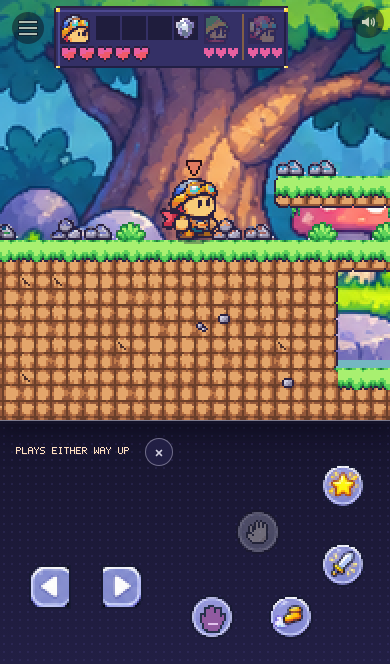
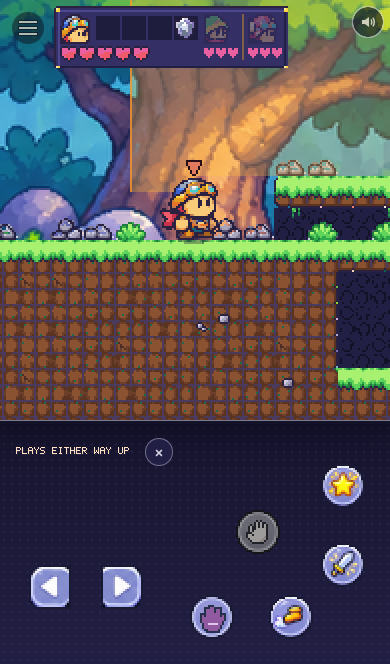
Step 15 push 4b: the forest on the phone (e2e case in place and green inside the full suite; true-size shots; the region row; a line for Step 10)
Why: the brief's push 4 (signal 6): a phone, by touch only, walks through
the courtyard's forest doorway, along the road, onto the trail, switches to
the infiltrator, climbs the boughs and gets into the gap.

- scripts/e2e/forest.ts (the second builder's parked draft, unchanged but for
  its header) called after quarryFacts in scripts/e2e.ts.
- docs/plan/step-15-shots/: ten spots at true 844x390, 750x340 and 390x664
  (tools/scenario-bots/shots.mjs now has a true 844x390 size; the old
  "844x390" was 750x340).
- docs/architecture.md "I need to add... a region"; docs/for-the-orchestrator.md
  a line for Step 10's lead; docs/plan/step-15.md handoff (push 5 not built:
  measured why, with options for the lead).

Ran: npm run build 0, npm run check ok; npm run e2e twice in full: first 1
red (cantina-in, then green twice alone), second 139 ok / 0 failed with all
five forest-* facts ok. Control E2E_FOREST_BREAK=door watched failing
(forest-in false, page stays in the courtyard). Restored the other steps'
shots that e2e rewrites. Not shot: the start menu's stage rows.
Measure rows: none moved. Undo: revert the commit.

Claude-Session: https://claude.ai/code/session_017WiGzGVGmfNTRtDB8nX3Np

diff --git a/scripts/e2e.ts b/scripts/e2e.ts
@@ -447,6 +447,8 @@ async function main(): Promise<void> {
       await (await import('./e2e/powers.ts')).powerFacts({ browser, devices, base, out, fact, errors, shots: path.join(out, 'powers') });
       // Step 16's facts (quarry-*): into the quarry by touch, and across its road onto the ridge (docs/plan/step-16.md, signal 7).
       await (await import('./e2e/quarry.ts')).quarryFacts({ browser, devices, base, out, fact, errors });
+      // Step 15's facts (forest-*): through the courtyard's forest doorway by touch, across the road onto the trail, switch to the infiltrator, up the boughs and into the gap (docs/plan/step-15.md, signal 6).
+      await (await import('./e2e/forest.ts')).forestFacts({ browser, devices, base, out, fact, errors });
       // Step 11's facts (cantina-*): into the cantina by touch, the party row, the swap and the brawl's counter on two phones (docs/mechanisms/cantina.md, signal 8).
       await (await import('./e2e/cantina.ts')).cantinaFacts({ browser, devices, base, out, fact, errors });
       // Step 17's facts (start-*): the start screen, New game, a friend joining by the shared link, and back, by touch (docs/mechanisms/saves.md).

diff --git a/scripts/e2e/forest.ts b/scripts/e2e/forest.ts
@@ -1,5 +1,3 @@
-// DRAFT, NOT RUN (Step 15 push 4, second builder): written, never executed. Move to scripts/e2e/forest.ts and add its call line after quarryFacts in scripts/e2e.ts:
-//   await (await import('./e2e/forest.ts')).forestFacts({ browser, devices, base, out, fact, errors });
 // Step 15's facts inside `npm run e2e` (one call line in scripts/e2e.ts), signal 6
 // (docs/plan/step-15.md): a phone-sized page, by touch only, walks from the
 // start room to the courtyard, up through its forest doorway into the forest
@@ -17,7 +15,7 @@
 // DRAFT: every limit below is a first pass with room to spare.
 import fs from 'node:fs';
 import path from 'node:path';
-import { me, phone, pointOn, settle, standAt, tap } from '../lib/e2e-touch.ts'; // DRAFT: move this file to scripts/e2e/forest.ts before running it
+import { me, phone, pointOn, settle, standAt, tap } from '../lib/e2e-touch.ts';
 import type { Kit, Phone } from '../lib/e2e-touch.ts';
 
 /* eslint-disable @typescript-eslint/no-explicit-any */

diff --git a/docs/plan/step-15.md b/docs/plan/step-15.md
@@ -334,6 +334,13 @@ Landed: 4323a15 (the first push of it, 13499e1, never went live: see `docs/proce
 - **The boulder's sprite:** not looked at (no mossy-stone cut chosen); still a grey box.
 - `scripts/stage-bot.ts` untouched; nothing to tell Step 22.
 
+### Handoff (third builder `session_017WiGzGVGmfNTRtDB8nX3Np`): push 4a live, push 4b below, push 5 not built (a finding)
+
+- **Push 4a (5779ebc, live):** the forest's own earth (P10's cobbles two tones down to a loam with moss flecks, `tools/art/tiles/forest.py` `forest_earth`), the backdrop without its seam (`assets/backdrops/forest-glade.png`: the preview's first view beside its own mirror), and dark earth behind every pocket underground (`content/decor/forest-trail.json`, 489 `far` items written by `tools/art/tiles/forest_decor.py`; no engine edit). Decor could cover the pockets: no finding there.
+- **Push 4b:** `scripts/e2e/forest.ts` in place, called after `quarryFacts` in `scripts/e2e.ts`. Its five facts (`forest-in`, `forest-road-cross`, `forest-switch`, `forest-climb`, `forest-gap`) passed on their own and twice inside the full `npm run e2e` (the second run 139 ok, 0 failed; the first had `cantina-in` red once, green twice alone and in the second full run: a flake, not the forest). Control `E2E_FOREST_BREAK=door` watched failing (`forest-in` false, the page stays in the courtyard). Shots at true 844x390, 750x340 and 390x664 in `docs/plan/step-15-shots/` (courtyard-doors, road, trail-start, trail-gap, root-tunnel, canopy, hatch, boulder, guarded-spot, deep-pocket); `tools/scenario-bots/shots.mjs` now takes true sizes. Not shot: the start menu's two stage rows (the menu lists only places a world has found; a fresh shot world has found neither by walking).
+- **Push 5 not built, measured why (for the lead):** an unseen clear needs more than a way past the lookout. Every bad guy on the upper trail faces west for good (`content/placements/forest-trail.json`: fighters at 41 and 43, the heavy at 49, the brute at 62, each `face left, wait 5`; sight 112 px across, 40 px up or down, `content/tuning.json`), and the stage's only way to its end is east along that trail to the shaft (94-98). A guard on your own level who never turns cannot be passed unseen without something solid between you or more than 40 px of height (`src/sim/npc/sight.ts`). The quiet stretch that exists: the crawl and the root tunnel are out of every sight (the mound blocks the thrower); the tunnel's hatch up (36-37) comes out 5 tiles in front of the fighter at 41. Options, each a change to push 3's trail, for the lead to choose: (a) a line of one-way boughs at row 5 from the hatch east over the fighters, the heavy, the brute and the lookout to the shaft (16 px under the canopy's slab at 46-52, so only the infiltrator fits under it: the small one's high way), plus a 2-tile root stump at column 39 so the climb out of the hatch is hidden; this changes the trail's main walk, so the recorded crossings and clears (`mk_cross.py`, `step15-cleared`, the star times) need re-recording; (b) give the trail's guards a turn in their routine and add one bough or stump per guard; (c) accept that the forest is the fight stage and the quarry the stealth one. My lean: (a), recorded with a copy of `scripts/stage-quiet.ts` set to the forest's rooms (it is the quarry's, hard-coded).
+- **Still owed:** the boulder is a grey box (no mossy-stone cut chosen); the cave back is night-blue loam, a first guess (taste); `docs/mechanisms/stages.md` already notes two stages.
+
 ## Released to a lead, 2026-11-24 08:40 UTC (orchestrator `session_017WiGzHhT2apmWHT61rQ65G`)
 
 Why now: `docs/vision-gaps.md` (refreshed at 9dbd705) ranks row 2 first: "one level is not a world: a second region". The eight core loops of the owner's ~18:30 verdict are all built and live, and the last two full re-runs with nothing red were at 6400b44 and f434f2e. So the heading above ("nothing here is briefed") no longer holds the step back.

diff --git a/docs/architecture.md b/docs/architecture.md
@@ -214,6 +214,7 @@ extends from its own file with `declare module '../types.ts' { … }`
 |---|---|---|
 | **room** | `content/rooms/<id>.json`: `rows` of characters and a `legend` mapping each to `solid`, `oneway`, `empty`, `spawn`, `{ "door": "<door id>" }` or `{ "part": "<part id>" }`. Optional: `doors`, `areas`, `parts`, `hidden`. A room with no doors is a standalone room (a test room); a room with doors must be reachable from the start room and back. Full format: `docs/mechanisms/rooms-and-doors.md`. | No |
 | **level** (several rooms joined into a run) | Rooms as above, joined by doors, one of them to a room already on the map (both ends written); placements for its loose things. Keep the main way inside what every party member can do alone (measure with `node scripts/trace.ts`) and let `npm run check`'s way-out check play the rest. A scenario per hero that walks it end to end. Then one level file, `content/levels/<id>.json` (its name, its rooms, the doorway in and its entrance art), so its doorway is drawn as an entrance and its discovery and pie are counted (`docs/mechanisms/levels.md`). The quarry is the example (`content/rooms/quarry-*.json`, `content/levels/iron-quarry.json`, `scenarios/step16-*`, `docs/mechanisms/rooms-and-doors.md`). | No |
+| **region** (a second place, played as a stage) | A level as above, its rooms prefixed with the place's name, walked to from a room already on the map (an `enter` door on its floor, written in both rooms), and three more files named after it: `content/stages/<level id>.json` (entrance door, end, star times set from scripted clears), `content/defeat/<place>.json` (`gameOver` at the entrance) and `content/completion/<level id>.json` (its pieces). Its look is data too: `content/atlases/<room>.json` over its own tile sheet, `content/backdrops/<room>.json`, `content/decor/<room>.json` (a `far` dark back over pockets underground). The Bramble Forest is the example (`content/rooms/forest-*.json`, `content/stages/bramble-forest.json`, `scenarios/step15-*`, `scripts/e2e/forest.ts`, `docs/plan/step-15.md`; `docs/mechanisms/stages.md`). | No |
 | **piece** (a thing to find in a level) | One entry in `content/completion/<level id>.json`: placed (`room`, `tile`, `look`: a cut `item-*`) or `from` a once-only thing taken or a prize banked. Ids never say what it is. A scenario that a hero someone plays finds it (`docs/mechanisms/levels.md`, "Pieces"). | No |
 | **hero to find** (Step 13) | A roster character outside `content/roster.json`'s `start`, then one file `content/recruits/<id>.json` (character, room, cage tile, hold seconds, call). It is placed caged in every new world, freed by holding Use, and kept (`docs/mechanisms/recruits.md`). | No |
 | **set** (a level's pieces) | The file `content/completion/<level id>.json` itself, named after its level (`content/levels/`). What it builds is its `builds`: a character (`content/characters/set-<level>.json`, a sheet in `content/sprites/`), a room and a tile; it appears when the last piece is found (`docs/mechanisms/levels.md`). | No |

diff --git a/docs/for-the-orchestrator.md b/docs/for-the-orchestrator.md
@@ -109,3 +109,7 @@ different from being a lead").
 ## Entries
 
 *(empty at 2026-11-24 10:15 UTC; the skip-worktree finding went into `docs/roles/builder-card.md`, section 6, and `docs/process-observations.md`. If you resolve a conflict in this file, keep the remote side of everything that is not your own entry.)*
+
+### Step 15's third builder, 2026-11-24 (for Step 10's lead)
+
+**Flag:** the walk to the forest is a beat Step 10 can use. From the courtyard, the forest's doorway (columns 8-10 of the floor, left of the quarry's) leads up into `forest-road` and on to `forest-trail`, a second stage (`bramble-forest`) with its own hearts, game over at its entrance and stars. A phone does it by touch alone (`npm run e2e`, facts `forest-in`, `forest-road-cross`; `scripts/e2e/forest.ts`). Shots of the road, the trail and its three secrets at 844x390, 750x340 and 390x664 are in `docs/plan/step-15-shots/`.
